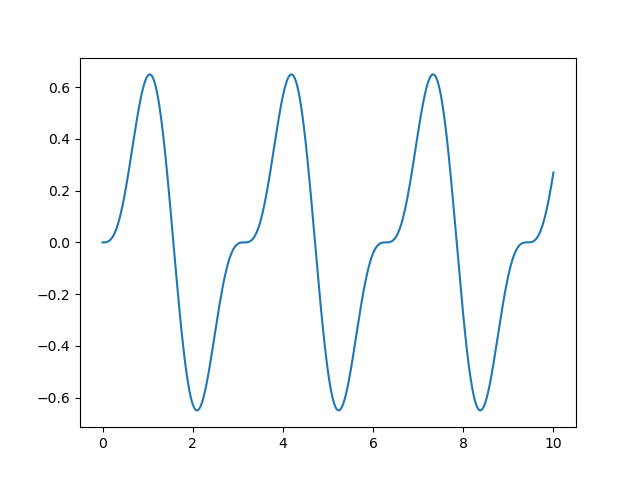
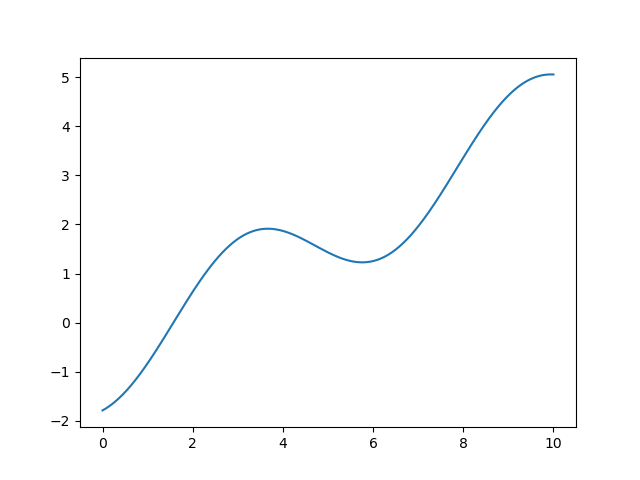
update

diff --git a/python/pictures/pic.py b/python/pictures/pic.py
@@ -2,8 +2,8 @@
 from numpy import *
 import matplotlib.pyplot as plt
  
-x=linspace(0,10,5000)
-y=sin(x)**2*sin(2*x)
+x=linspace(0,10,50000)
+y=x/2-cos(x)-pi/4
 plt.figure()
 plt.plot(x,y)
 plt.savefig("easyplot.png")#导出图像入图片
